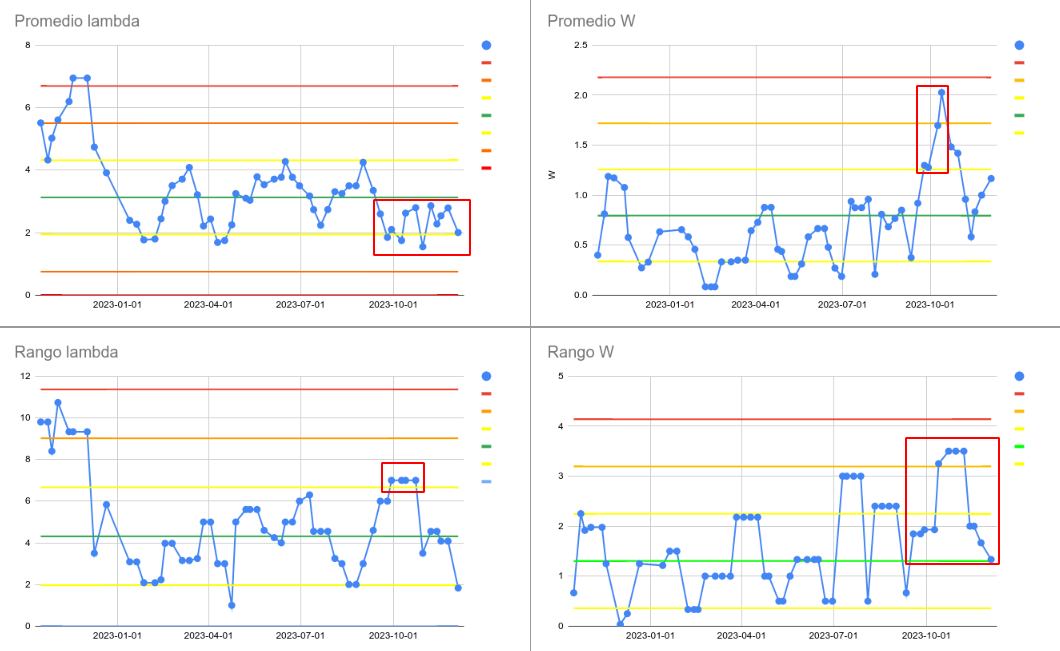
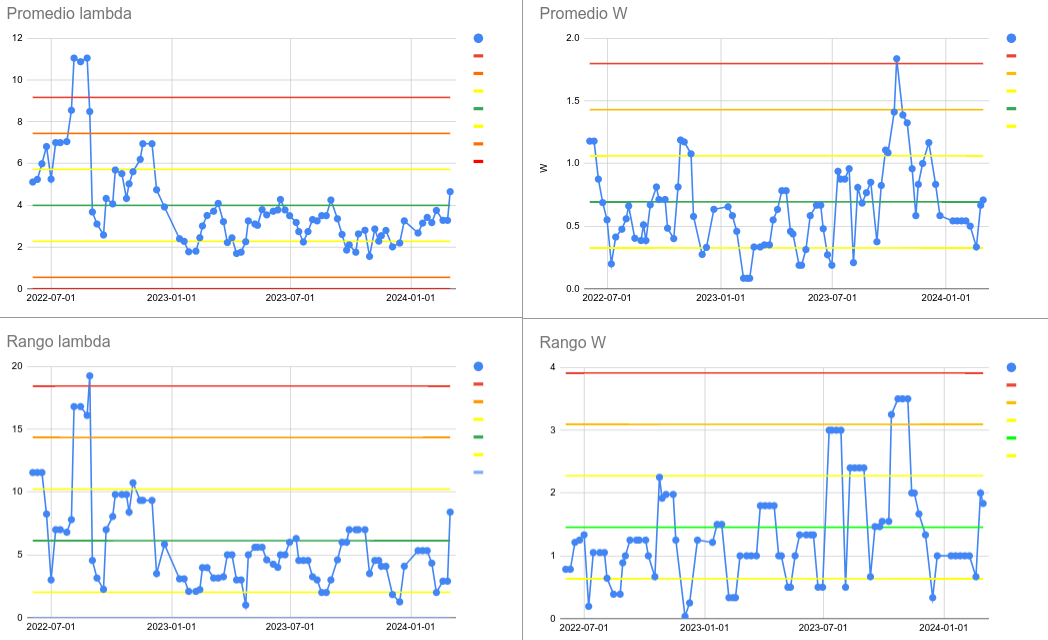
⚰✨🚧 update postmortem

diff --git a/_posts/2023-12-06-evaluacion-desempeño-post-mortem.md b/_posts/2023-12-06-evaluacion-desempeño-post-mortem.md
@@ -6,8 +6,14 @@ tags: equipo aprendizaje
 ---
 
 ## Resumen del incidente
-Al dibujar las cartas de control con datos de octubre del 2022 a diciembre del 2023, notamos que nuestro desempeño está fuera de control.
-Encontramos al menos una alerta en cada carta de control en el periodo de septiembre a diciembre del 2023.
+Al dibujar las cartas de control con datos de mayo del 2022 a marzo del 2024, notamos que nuestro desempeño está fuera de control.
+
+Este evento fuera de control comenzó el día 13 de octubre de 2023 y termina el 01 de marzo de 2024.
+La duración fue de 140 días, el tiempo medio de recuperación es 70 días. Hubo alertas en todas las cartas, estuvimos por debajo del promedio.
+(por qué?)
+- Cambios en la especificación de tareas
+- 
+
 
 ## ¿Qué nos condujo al evento?
 - Dividimos el equipo para hacer trabajo administrativo durante la semana.
@@ -27,77 +33,79 @@ Encontramos al menos una alerta en cada carta de control en el periodo de septie
 ## Detección
 Teníamos agendada la evaluación del desempeño del equipo y decidimos hacer las cartas de control.
 Hicimos 4 cartas de control: el promedio de lambda, el promedio de W, el rango de la lambda y el rango de W.
-- En el promedio de W, la alerta ocurre el 13 de octubre.
-El criterio de la alerta fue 4 puntos por arriba de una sigma.
-El 7 de noviembre ocurre una alerta de 8 puntos por arriba del promedio.
-- En el rango de lambda la alerta ocurrió el 23 de octubre.
-El criterio de la alerta fue 4 puntos por arriba de una sigma.
-- En el rango de W, el 23 de octubre hay una alerta de 2 puntos por arriba de dos sigmas.
-El 7 de noviembre hay dos alertas de 8 puntos arriba del promedio y 4 puntos arriba de una sigma.
-- En el promedio de lambda, tuvimos 8 puntos por debajo del promedio el 7 de noviembre de 2023.
-Hay dos alertas que siguen activas: el rango de W sigue por arriba del promedio y el promedio de lambda sigue por abajo del promedio.
+- En el **promedio de lambda**, tuvimos **8 puntos por debajo del promedio** el 30 de octubre de 2023.
+- En el **promedio de W**, la alerta comienza el 13 de octubre y termina el 01 de marzo de 2023. El criterio de la alerta fue de **1 punto por arriba de tres sigmas**. Hay una **segunda alerta** el 2 de febrero de 2024 con **8 puntos por debajo del promedio**.
+- En el **rango de lambda** la alerta ocurrió el 22 de diciembre de 2023. El criterio de la alerta fue **8 puntos por debajo del promedio**.
+- En el **rango de W**, el 9 de febrero de 2024 hay una alerta de **8 puntos por debajo del promedio**.
 
 ## Respuesta
-La respuesta todavía no llega.
-Una barrera para generar una respuesta es que los límites de control y las cartas de control las generamos manualmente.
+- Pusimos atención en la longitud de las tareas.
+- Planeamos las tareas que deben salir en la semana con base en las cartas de control.
+
+Hubo una barrera o retraso para regresar a control en este tiempo.
+Desde diciembre sabemos que estamos fuera de control y tardamos 10 semanas en recuperar el control.
+Cuando creamos las cartas de control ya llevábamos dos meses fuera de control.
+Esta detección tardía provocó que fuera difícil identificar la causa asignable.
+
+## Otras ideas para explorar
+- Tal vez la especificación del viernes no la hicimos bien.
+En esta junta debimos de especificar el tamaño de las tareas.
 
 ## Recuperación
+Regresamos a control el primero de marzo de 2024.
+A partir del 26 de enero de 2024 intentamos definir tarjetas más cortas y planeamos el número de tarjetas que podrían salir en la semana.
+Con las cartas de control actualizadas sabíamos cuantas tarjetas debíamos terminar por semana para volver a control.
+Una vez que teníamos el número necesario, revisamos cuáles eran las tareas más fáciles de terminar y en esas trabajamos.
 
 ### ¿Cómo reducir el tiempo de recuperación?
 - Si las cartas las generamos automáticamente las podríamos revisar con la misma periodicidad con la que actualizamos los datos.
 - Podemos agregar al corte la revisión de las cartas de control.
 
 ## Línea de tiempo
-- [01-09-203] Empieza el horario de trabajo administrativo en lunes y miércoles; viernes creativo
-- [11-09-2023] Tomamos curso "Efficiently Testing ETL Pipelines: Enhancing data quality with PySpark and Python"
 - [18-09-2023] Regreso a oficinas
 - [18-09-2023 al 29-09-2023] Experimentos con microservicios
 - [18-09-2023] NR trabajó en casa jueves y viernes para evitar contagios en oficina
 - [09-10-2023] Levantamos servidor en Azure y día económico Memo
 - [23-10-2023] Levantamos el provisionador en Azure
-- [30-10-2023 al 07-11-203] Presentación de IRIS
-- [07-11-203 al 21-11-2023] Vacaciones Mario
 - [17-11-2023] Reunión con Ale Fabila y taller Looker Studio
-- [24-11-2023] Semana de 4 días
 
 ## Cinco "por qué"s
 1. ¿Por qué estamos fuera de control?
-    - Las cuatro cartas de control tienen al menos una alerta en el periodo de septiembre de 2023 al 4 de diciembre del 2023.
+    - Las cuatro cartas de control tienen al menos una alerta en el periodo del 13 de octubre de 2023 al 01 de marzo del 2024.
 1. ¿Por qué se activaron las alertas?
-    - Porque redujimos el tiempo de trabajo en las tarjetas del Kanban
-1. ¿Por qué redujimos el tiempo de trabajo en las tarjetas del Kanban?
-    - Porque asignamos un horario al trabajo administrativo, a los viernes creativos, experimentamos con microservicios y cambiamos el alojamiento del servidor de desarrollo a Azure.
-1. ¿Por qué estas razones contribuye a que haya aumentado la W?
-    - Horario administrativo:
-      - Los lunes y miércoles hay un equipo que trabaja en tarjetas del Kanban. Ahora estamos atendiendo trabajo administrativo y antes no.
-      - En el Kanban ya no contamos el trabajo administrativo.
-    - Viernes creativo:
-      - Los días viernes intentamos trabajar en cosas que no están en el Kanban, medio día menos.
-    - Experimentos con microservicios:
-      - Durante tres semanas invertimos tiempo en implementar el microservicio que genera la gráfica de semáforo.
-      En esas tres semanas solamente tuvimos una estrella en terminado, con cuatro tarjetas terminadas.
-    - Cambiamos el servidor de desarrollo a Azure:
-      - Al menos dos días de trabajo los invertimos en esto.
-1. ¿Por qué implementamos el horario administrativo, viernes creativo y el microservicio?
-    - Horario administrativo:
-        - Regreso a oficina
-        - Organizar los tiempos para trabajar en temas administrativos
-    - Viernes creativo:
-        - Apartar tiempo para investigar/experimentar con software y patrones de diseño que nos podrían ser de utilidad.
-    - Microservicio:
-        - Teníamos problemas de dependencias entre paquetes de Python de dos módulos.
-        Usamos esta técnica para evitar problemas de compatibilidad en la imagen del repositorio clase 3.
-
+    - Porque comenzamos a tener un número menor de tarjetas terminadas.
+1. ¿Por qué disminuyó el número de tarjetas terminadas?
+1. ¿Por qué estas razones contribuye a que haya aumentado la $\lambda$?
+    - En el Kanban ya no contamos el trabajo en el mantenimiento de nuestras herramientas ni del trabajo administrativo.
+    - La proporción de tareas clase 1 en este equipo es 17\% en el "equipo anterior" teníamos 25\%. Las tareas clase 3 de los últimos dos años es 31\% antes teníamos 13\%. Sospechamos que estamos incluyendo trabajo clase 1 en las tarjetas clase 3.
+    - En las 4 semanas previas a la primera alerta:
+        - Experimentamos con microservicios. 
+        Durante tres semanas invertimos tiempo en implementar el microservicio que genera la gráfica de semáforo.
+        En esas tres semanas solamente tuvimos una estrella en terminado, con cuatro tarjetas terminadas.
+        - Cambiamos el servidor de desarrollo y el provisionador a Azure.
+        Al menos tres días de trabajo los invertimos en la migración a Azure.
+1. ¿Por qué quitamos el trabajo administrativo del Kanban, experimentamos con microservicios, nos cambiamos a Azure?
+    - Decidimos que el tablero se reflejara el trabajo relacionado a una isla y especie en particular.
+    Aprovechamos que tenemos que ir a oficina para realizar el trabajo administrativo.
+    Aun no queda claro cuáles tarjetas administrativas deben entrar al Kanban.
+    - Experimentamos con microservicios porque:
+    Teníamos problemas de dependencias entre paquetes de Python de dos módulos.
+    Usamos esta técnica para evitar problemas de compatibilidad en la imagen del repositorio clase 3.
+    - Migramos a Azure porque se nos terminó la donación de DigitalOcean.
 ## Causa raíz
-Todavía no estamos en control y las causas que generaron las primeras alertas y siguen activas son:
-- Horario administrativo
-- Viernes creativo
+- De las tres razones que encontramos en la sección anterior, al menos dos son cosas puntuales.
+  Si fueran la causa raíz nos hubieramos recuperado más rápido.
+- El cambio en la definición de las tarjetas del Kanban es un comportamiento que se mantuvo hasta de manera regular.
 
 ## Lecciones aprendidas y cosas ganadas
 - En las semanas que no tenemos tareas terminadas, definimos la W como 3 sigmas.
 Así evitamos la división por cero.
 - Las Notas del Kanban nos sirven para detectar eventos atípicos y encontrar las causas.
+- Aun no queda claro cuáles tarjetas administrativas deben entrar al Kanban.
+- Es más difícil encontrar una causa asignable
+- ¿Cómo afecto no haber tenido inspector de reproducibilidad?
 
 ## Acciones correctivas
+- Viernes creativos disminuyeron.
 - Agregar al corte la revisión de las cartas de control.
-- Contabilidad del trabajo administrativo: mantener estas acciones hasta el viernes 19 de enero.
+- Contamos el trabajo administrativo de la semana del 26 de febrero al 1 de marzo.
